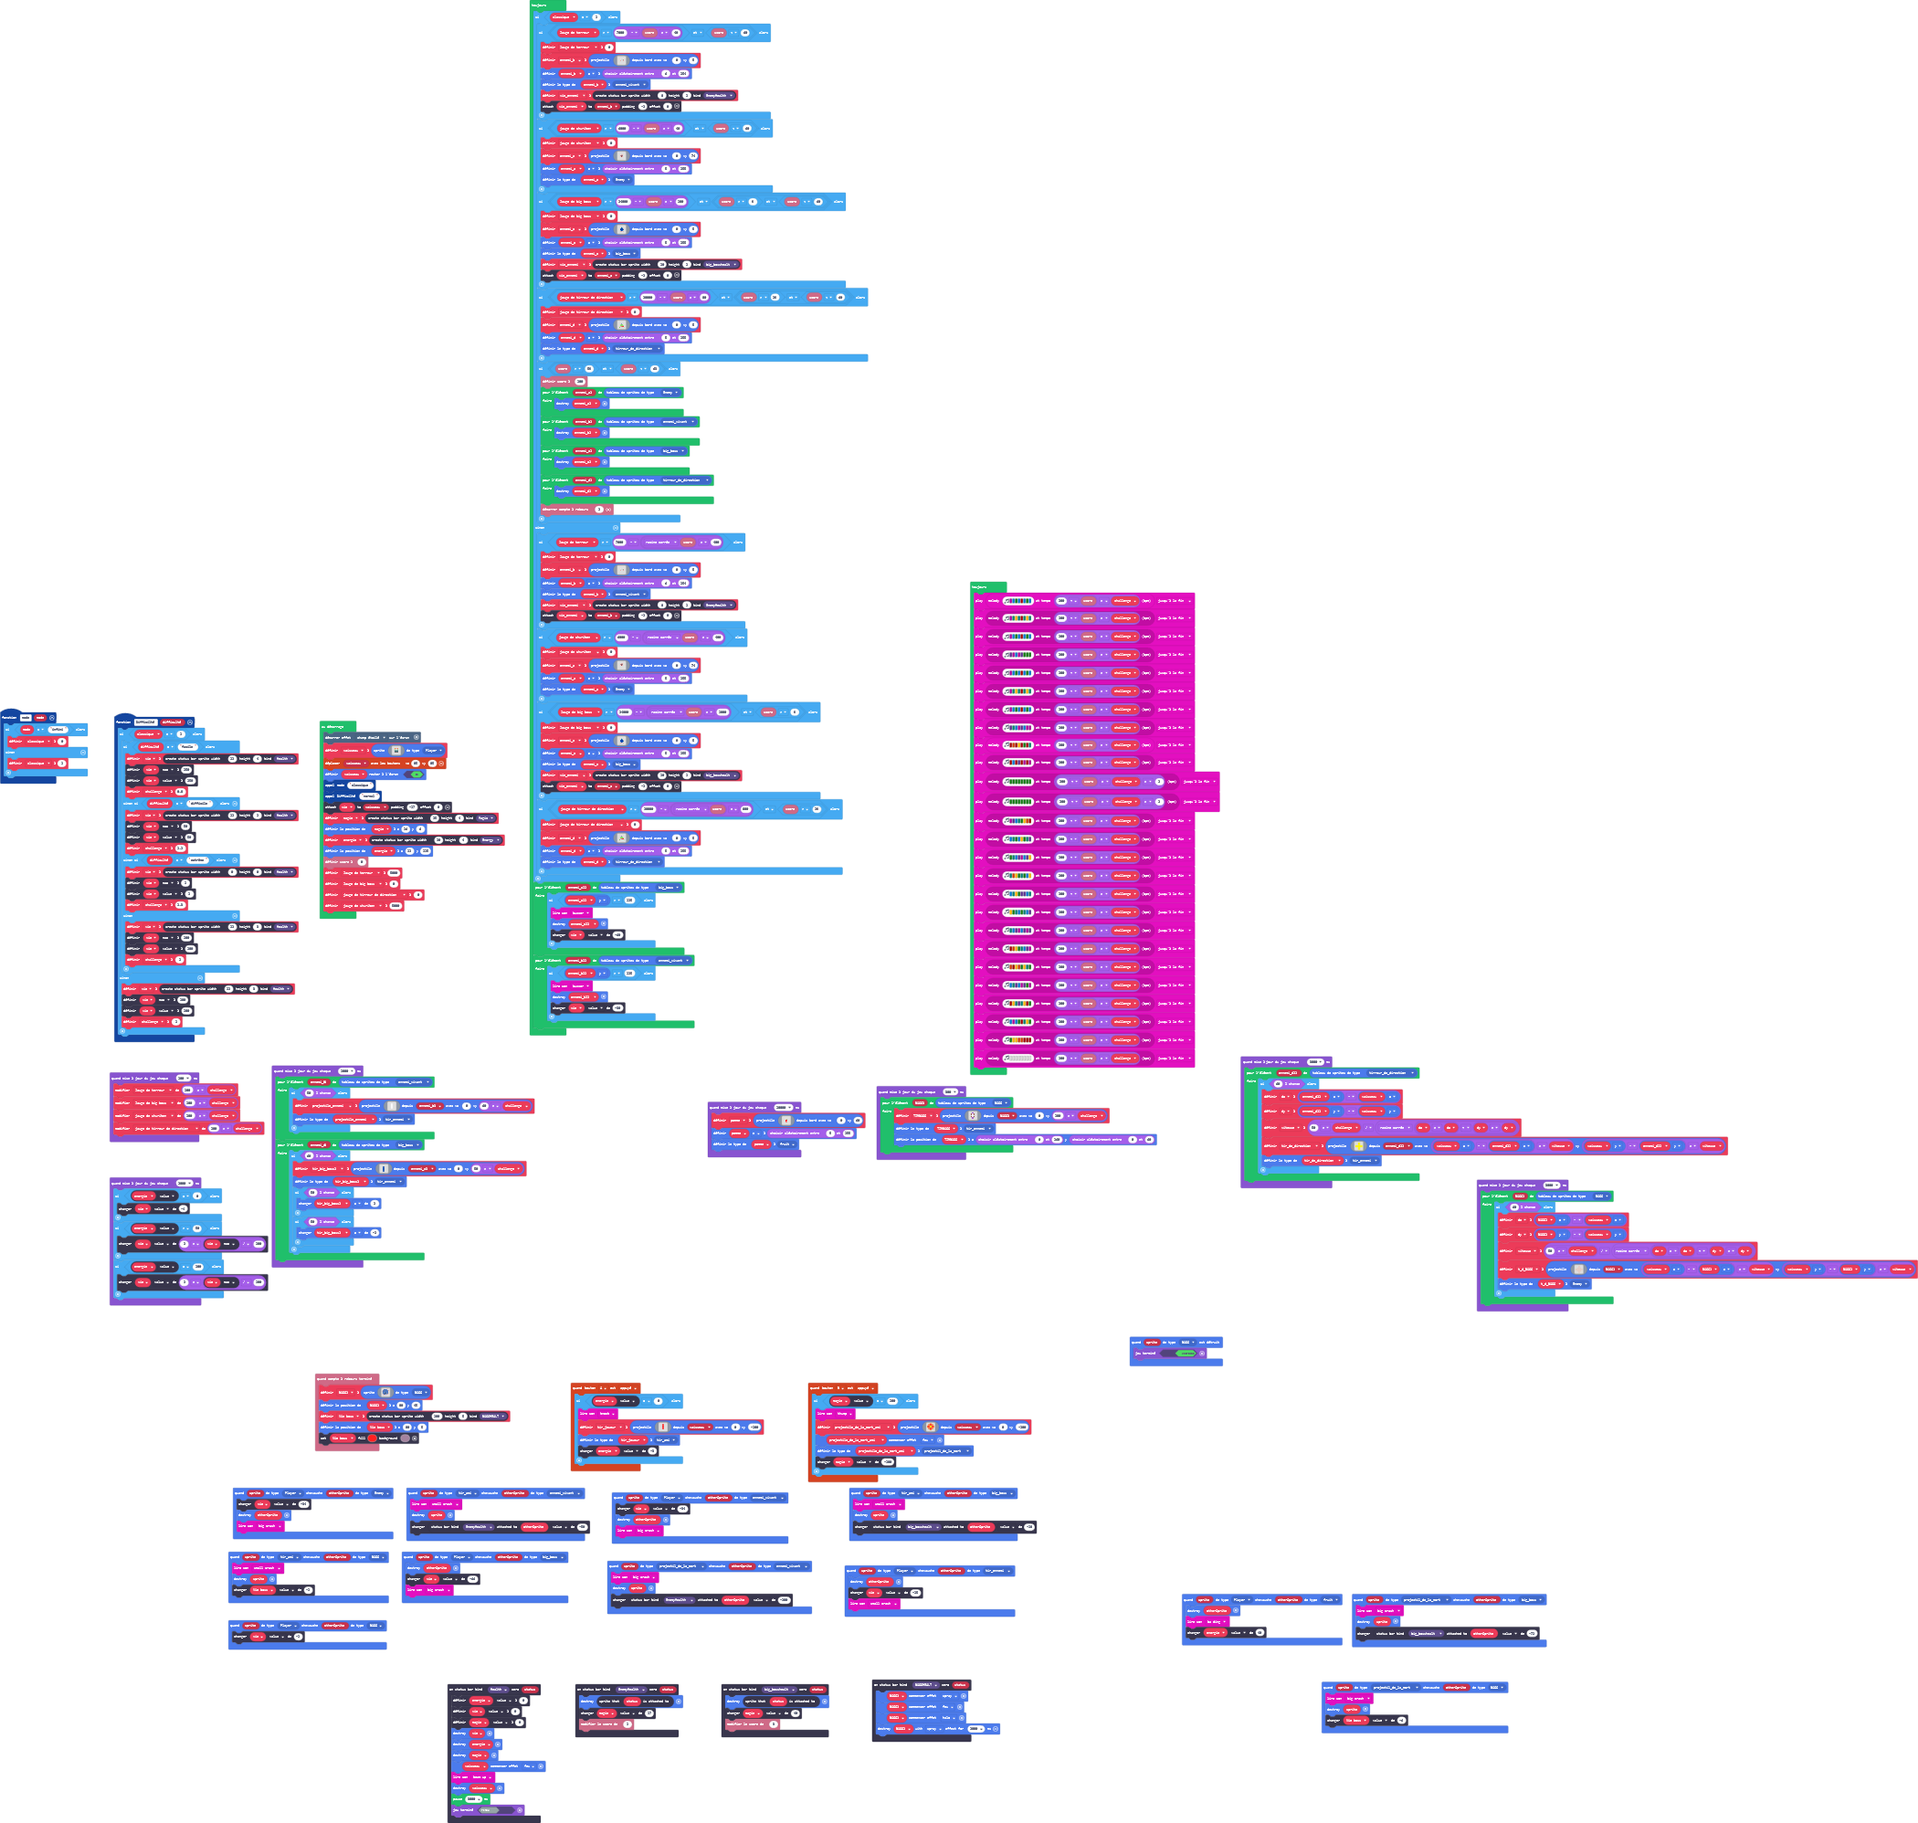
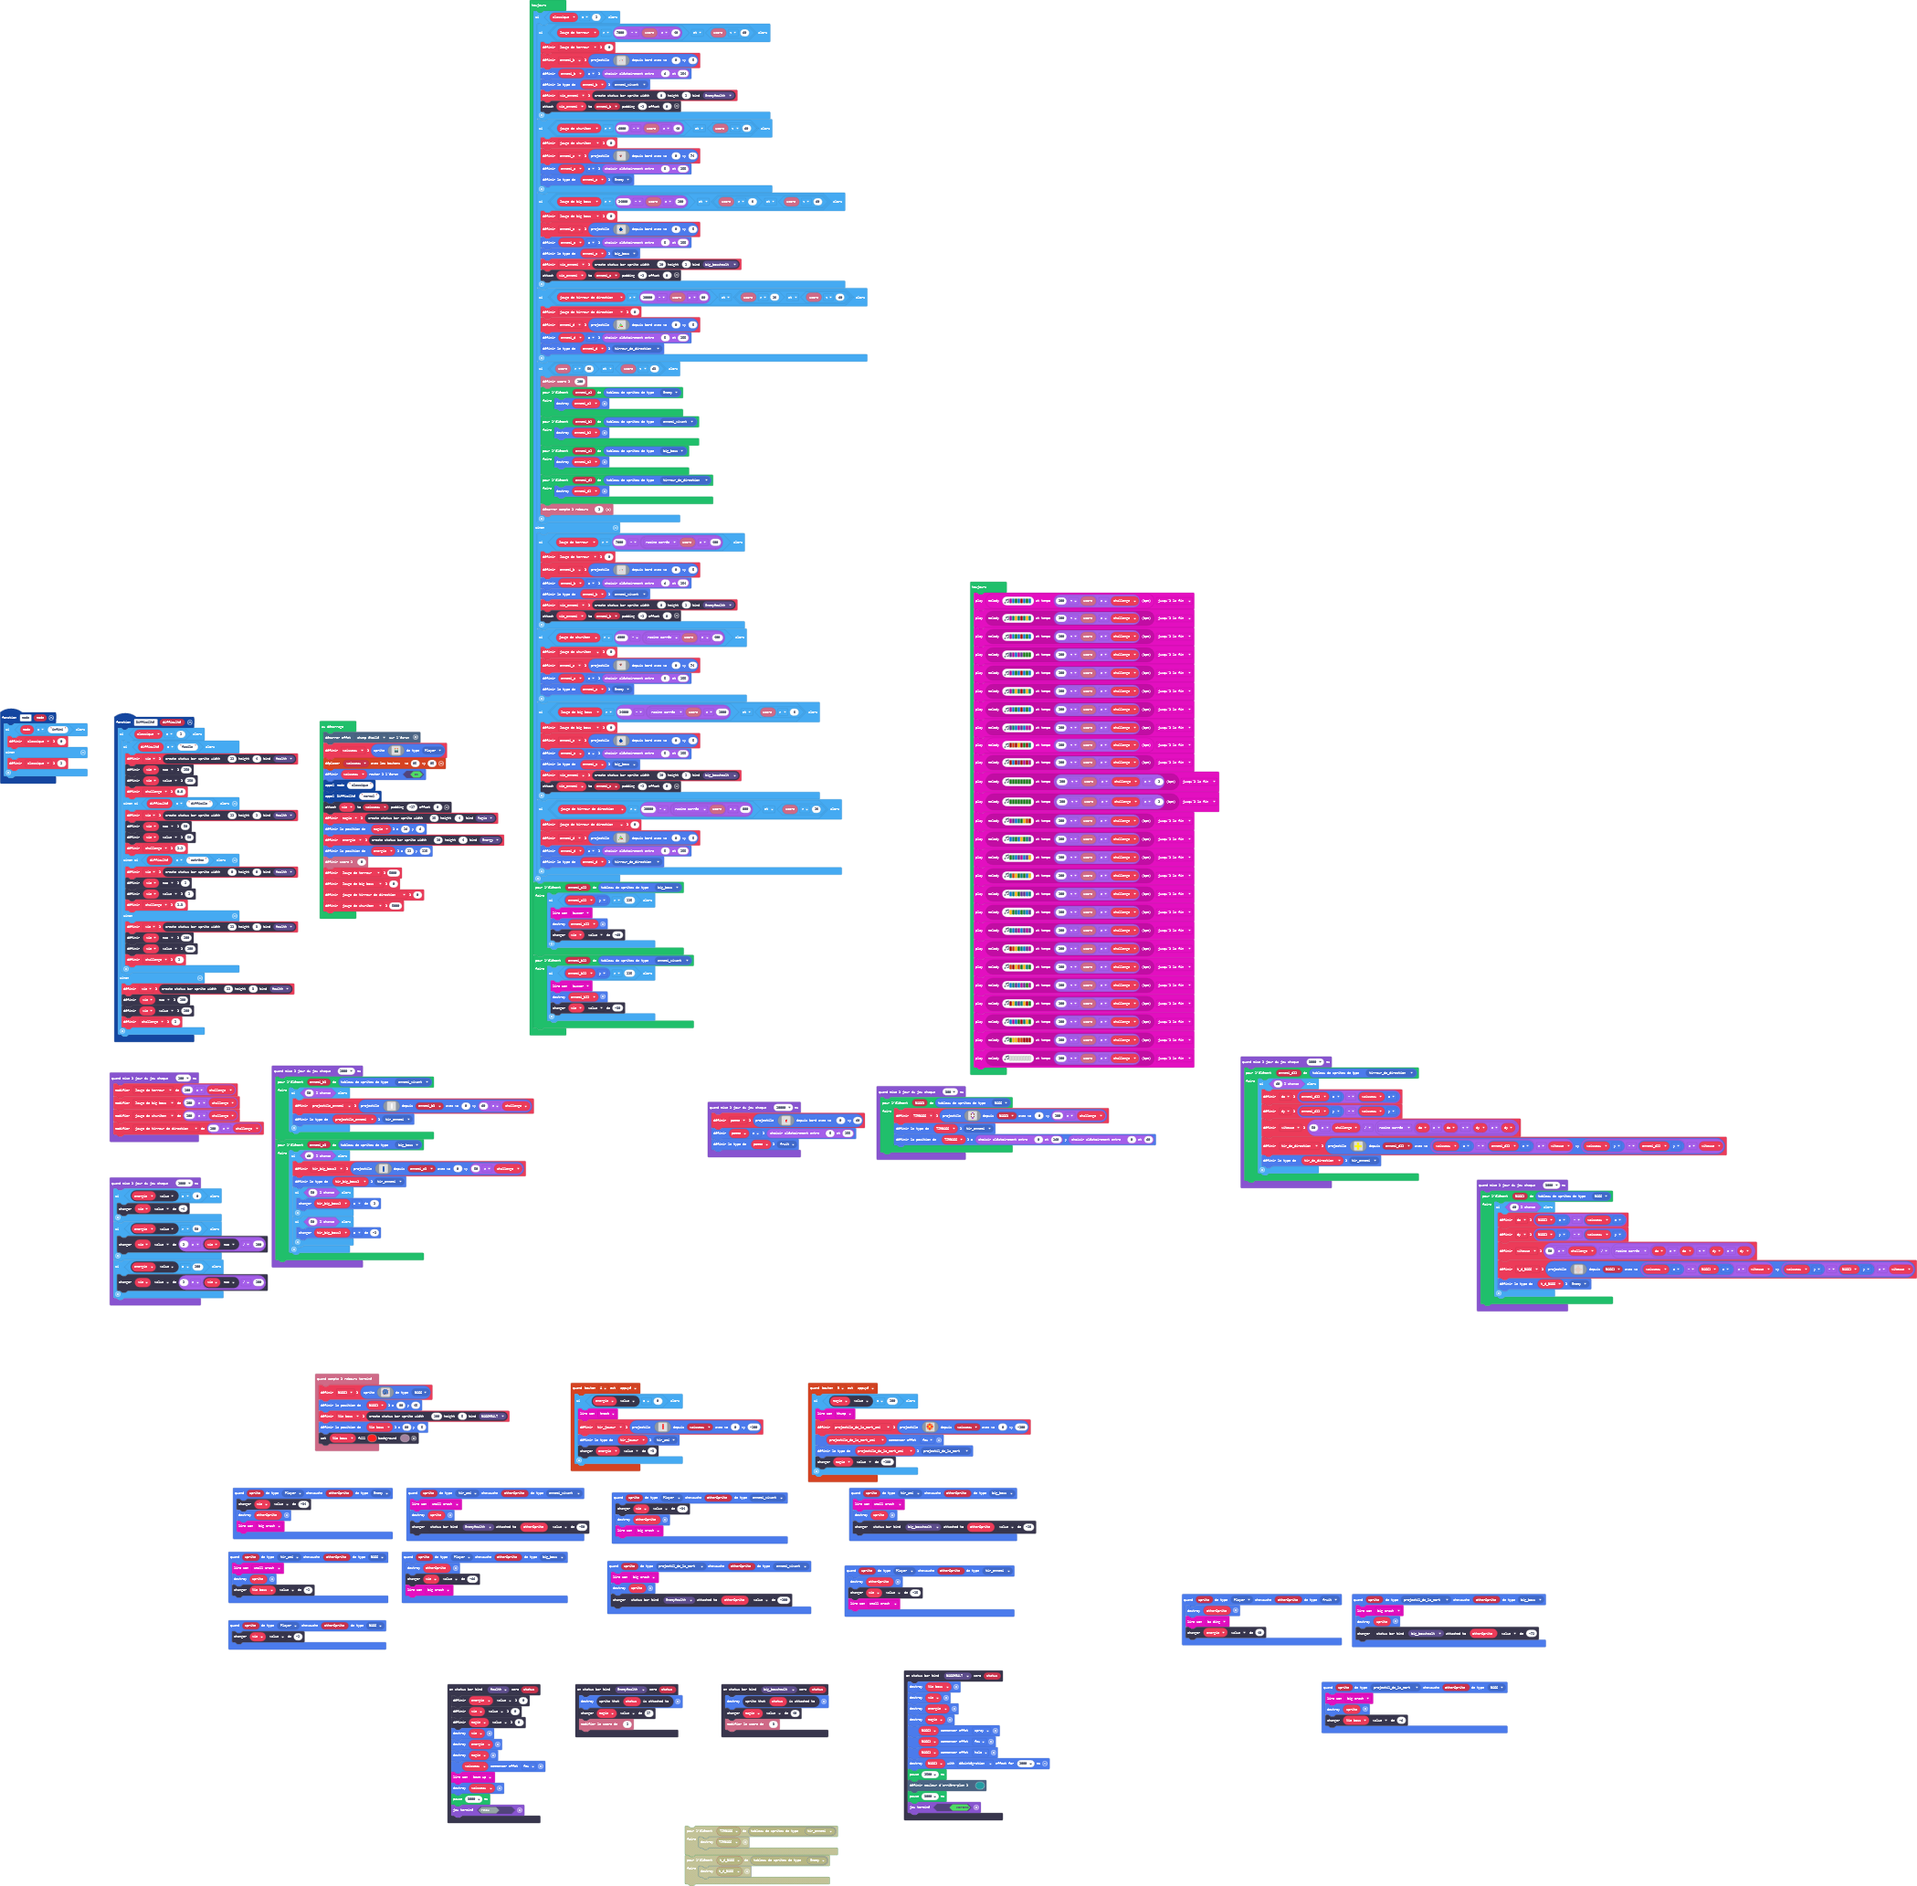
Mise à jour main.blocks, main.ts

Changed region(s): [[0.0, 0.0, 1.0, 1.0], [0.5884, 0.8387, 0.8051, 0.9629], [0.5884, 0.7144, 0.6503, 0.7766]]

diff --git a/main.ts b/main.ts
@@ -24,9 +24,6 @@ statusbars.onZero(StatusBarKind.big_bosshealt, function (status) {
     magie.value += 40
     info.changeScoreBy(3)
 })
-sprites.onDestroyed(SpriteKind.BOSS, function (sprite) {
-    game.over(true)
-})
 sprites.onOverlap(SpriteKind.tir_ami, SpriteKind.ennemi_vivant, function (sprite, otherSprite) {
     music.smallCrash.play()
     sprite.destroy()
@@ -36,10 +33,18 @@ sprites.onOverlap(SpriteKind.Player, SpriteKind.BOSS, function (sprite, otherSpr
     vie.value += -1
 })
 statusbars.onZero(StatusBarKind.BOSSHEALT, function (status) {
+    sprites.destroy(Vie_boss)
+    sprites.destroy(vie)
+    sprites.destroy(energie)
+    sprites.destroy(magie)
     BOSS2.startEffect(effects.spray)
     BOSS2.startEffect(effects.fire)
     BOSS2.startEffect(effects.halo)
-    BOSS2.destroy(effects.spray, 2000)
+    BOSS2.destroy(effects.disintegrate, 2000)
+    pause(2500)
+    scene.setBackgroundColor(6)
+    pause(3000)
+    game.over(true)
 })
 sprites.onOverlap(SpriteKind.Player, SpriteKind.tir_ennemi, function (sprite, otherSprite) {
     otherSprite.destroy()
